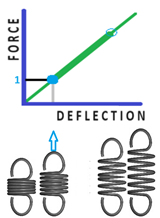
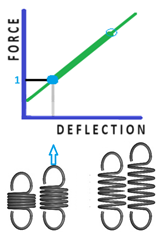
925 Add more images to variable name tooltips
Update extension spring tooltip images
containing force-deflection chart
add Initial_Tension image to initial_State

diff --git a/client/src/designtypes/Spring/Extension/initialState.js b/client/src/designtypes/Spring/Extension/initialState.js
@@ -61,7 +61,7 @@ export const initialState = {
             "validmin": 0.0,
             "validmax": Number.MAX_VALUE,
             "sdlim": 0.01,
-            "tooltip": "Minimum force required to separate coils",
+            "tooltip": "<Table><tr><td>Minimum force required to separate coils</td></tr><tr><td><Image fluid src=\"/designtypes/Spring/Extension/tooltips/Initial_Tension.png\"/></td></tr></Table>",
             "type": "equationset",
             "hidden": false,
             "propagate": [{ name: "Force_1", minmax: MIN }]

diff --git a/client/src/designtypes/Spring/Extension/initialState_metric_units.js b/client/src/designtypes/Spring/Extension/initialState_metric_units.js
@@ -61,7 +61,7 @@ export const initialState = {
             "validmin": 0.0,
             "validmax": Number.MAX_VALUE,
             "sdlim": 0.01,
-            "tooltip": "Minimum force required to separate coils",
+            "tooltip": "<Table><tr><td>Minimum force required to separate coils</td></tr><tr><td><Image fluid src=\"/designtypes/Spring/Extension/tooltips/Initial_Tension.png\"/></td></tr></Table>",
             "type": "equationset",
             "hidden": false,
             "propagate": [{ name: "Force_1", minmax: MIN }]
